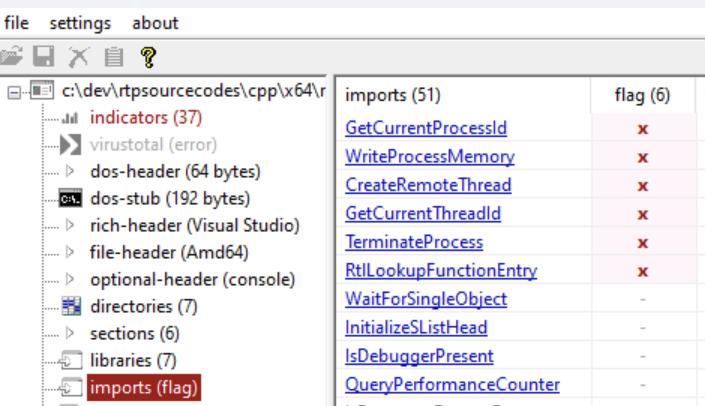
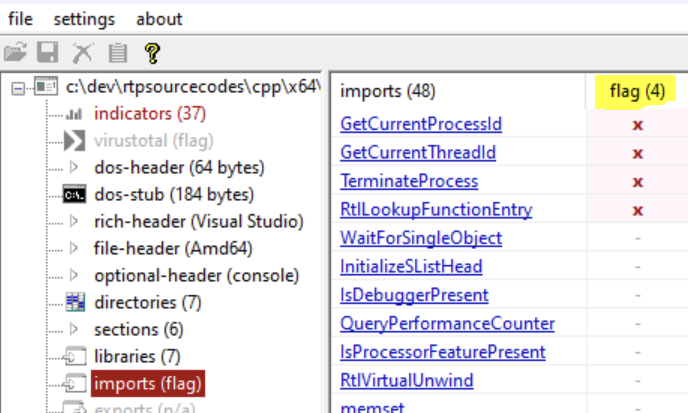
GITBOOK-229: No subject

diff --git a/what-even-is-redteam.md b/what-even-is-redteam.md
@@ -1,28 +1,40 @@
 # 레드팀이란
 
-레드팀(Red Team/Red Teaming)이라는 단어는 시간이 지남에 잘못된 단어 정의로 인해 다양한 정의를 갖게 되었다. 가장 보편화된 정의들은 다음과 같다:
+<figure><img src=".gitbook/assets/image (2).png" alt=""><figcaption></figcaption></figure>
+
+레드팀(Red Team/Red Teaming)이라는 단어는 시간이 지남에 따라다양한 정의를 갖게 되었다. 가장 보편화된 정의들은 다음과 같다:
 
 1. **일반적인 정의:** "같은 조직안에서 모의 적군의 입장을 갖고 현 조직내의 보안적 문제점이 무엇인지 살펴보는 팀" - 냉전 시대때의 정보기관 및 정보공동체 (Intelligence Community)에서 만들어졌다.
-2. **정보보안 업계의 정의:** "타겟 기관의 관리적, 기술적 보안을 담당하는 인력, 대응절차, 보안 통제 등의 전반적인 현황과 부족한 간극을 평가하기 위해 승인 받은 내/외부 보안 전문가들이 실제 공격자들의 공격 라이프사이클과 전략, 전술, 절차를 에뮬레이트 (emulate), 혹은 시뮬레이트 (simulate) 한 가상의 사이버 공격을 타겟에게 실행하는 보안 평가 서비스". 요즘에는 아래 서술될 이유 때문에 공격자 시뮬레이션 (Adversary Simulation) 이라는 단어로 대체되었다.
+2. **정보보안 업계의 정의:** "타겟 기관의 관리적, 기술적 보안을 담당하는 인력, 대응 절차, 보안 통제 등의 전반적인 현황과 부족한 간극을 평가하기 위해 승인 받은 내/외부 보안 전문가들이 실제 공격자들의 공격 라이프사이클과 전략, 전술, 절차를 에뮬레이트 (emulate), 혹은 시뮬레이트 (simulate) 한 가상의 사이버 공격을 타겟에게 실행하는 보안 평가 서비스". 요즘에는 아래 서술될 이유 때문에 공격자 시뮬레이션 (Adversary Simulation) 이라는 단어로 대체되었다.
 3. **정보보안 마케팅/미디어/HR의 정의:** 포괄적인 의미에서의 오펜시브 시큐리티(Offensive Security). 오펜시브 시큐리티와 관련된 모든 개념과 정의를 두루뭉술하게 모두 일컫는 단어가 되었다.
 
 2010년대 초반부터 정보보안 업계에서 레드팀은 #2번의 정의를 - 원래 실제 공격자 라이프사이클과 TTP를 모방한 사이버 공격을 고객사에게 진행해 고객사의 보안 인력, 공격 대응 절차, 보안 통제등에 대해서 통합적인 검사를 진행하는 프리미엄/틈새(niche) 서비스 - 일컫는 단어였다. 안타깝게도 2010년 중후반을 지나며 정보보안을 향한 관심이 커지고, 다양한 HR, 미디어, 마케팅 등에서 단어의 정의를 마음대로 바꾸며 사용하는 바람에 요즘에는 #3번의 정의로 더 많이 쓰이고 있다. 국내외 막론하고 대기업들 조차 웹/모바일 모의 침투 테스터를 뽑는 공고에 "XX기업 레드팀 전문가 채용" 이라는 제목을 짓는 지경까지 왔기에, 원래 레드팀 서비스를 제공하고 있던 회사들과 레드티머 (Red Teamers) 들은 레드팀이라는 단어를 버리고 공격자 시뮬레이션 (Adversary Simulation) 이라는 단어를 사용하기 시작했다.
 
+따라서 이 프로젝트의 경우도 #3번의 정의를 따라 "레드팀 플레이북" 이라는 프로젝트 명을 갖게 되었다. 사실 "오펜시브 시큐리티 플레이북" 이나, "공격자 시뮬레이션 플레이북" 이라는 이름이 더 잘 어울리겠지만, 이미 단어의 정의가 바뀌어 버렸기 때문에 그냥 "레드팀 플레이북" 을 사용하기로 결정했다.&#x20;
+
+이 글에서는 레드팀의 공격자 시뮬레이션 (Adversary Simulation)의 정의에 대해서 알아본다.&#x20;
+
 ## 모의해킹의 한계
 
-국내에서는 웹과 모바일 위주로 모의해킹이 이뤄지고 있지만, 전세계적으로는 내부망, 외부망, 웹/모바일, 클라우드, 스카다 (SCADA), 소셜 엔지니어링, 물리, 메인프레임 등의 다양한 모의해킹 서비스들이 제공되고 있다. 하지만 실제 공격자들은 공격을 진행할 때 세분화된 공격을 진행하지 않는다. 모바일 먼저 공격하고, 모바일 끝나면 웹앱 공격하고, 웹앱 끝나면 피싱 공격하고, 이렇게 세분화되고 순차적인 공격을 하지 않는다. 공격자들은 동시 다발적으로 공격 표면(Attack Surface)들을 공격한다. 또한, 여러개의 공격 표면을 같이 엮어 공격하거나, 1개의 공격 표면을 장악한 뒤 다른 공격 표면으로 횡적이동을 할 수도 있다. 예를 들어 피싱과 외부 경계 보안을 통해 내부망으로 진입한 뒤, 내부망 해킹을 통해 도메인을 장악하고, 클라우드 데이터베이스 서비스를 통해 데이터를 훔친 뒤, 모바일 어플리케이션을 통해 데이터를 유출시킬 수 있을 것이다.
+<figure><img src=".gitbook/assets/image.png" alt=""><figcaption></figcaption></figure>
 
-이처럼 세분화된 모의해킹 서비스들은 기관이 갖고 있는 다양한 도메인(웹, 모바일, 클라우드, 외부망, 내부망...)들의 개별적인 보안 평가를 하는데에는 최적화 되어있다. 하지만, 모의해킹은 정작 실제 사이버 공격이 일어났을 때 보안 인력들이 어떻게 대응해야하는지, 서브 도메인들의 보안 통제가 유기적으로 이뤄지고 있는지에 대한 전반적인 평가를 하는데 사용될 수 없다. 웹 모의해킹을 통해 웹앱에서 XSS, CSRF 등의 취약점을 몇 개 찾는다고 해서 공격자들이 해당 웹 어플리케이션을 프록시 서버로 사용해 내부망에 진입한 뒤, 내부망 데이터를 웹앱의 REST API 엔드포인트들을 통해 유출시키고 있다는 것을 알 수 없는 것처럼 말이다. 개별적인 보안 평가도 중요하지만, 기관/회사의 전반적인 보안 능력을 평가하는데 있어서는 현 모의해킹 서비스들의 한계는 명확하다.
+국내에서는 웹과 모바일 위주로 모의해킹이 이뤄지고 있지만, 전세계적으로는 내부망, 외부망, 웹/모바일, 클라우드, 스카다 (SCADA), 소셜 엔지니어링, 물리, 메인프레임 등의 다양한 모의해킹 서비스들이 제공되고 있다. 하지만 실제 공격자들은 공격을 진행할 때 세분화된 공격을 진행하지 않는다. 모바일 먼저 공격하고, 모바일 끝나면 웹앱 공격하고, 웹앱 끝나면 피싱 공격하고, 이렇게 세분화되고 순차적인 공격을 하지 않는다. 공격자들은 동시 다발적으로 공격 표면(Attack Surface)들을 공격한다. 또한, 여러개의 공격 표면을 같이 엮어 공격하거나, 1개의 공격 표면을 장악한 뒤 다른 공격 표면으로 횡적이동을 할 수도 있다. 예를 들어 피싱과 취약한 웹 어플리케이션을 통해 내부망으로 진입한 뒤, 도메인을 장악하고, 클라우드 데이터베이스 서비스에서 데이터를 훔친 뒤, 피해 기관의 모바일 어플리케이션의 백엔드 API 서버를 통해 데이터를 유출시킬 수 있다.
+
+세분화된 모의해킹 서비스들은 기관이 갖고 있는 다양한 도메인(웹, 모바일, 클라우드, 외부망, 내부망...)들의 개별적인 보안 평가를 하는데에는 최적화 되어있다. 하지만, 모의해킹은 정작 실제 사이버 공격이 일어났을 때 보안 인력들이 어떻게 대응해야하는지, 서브 도메인들의 보안 통제가 유기적으로 이뤄지고 있는지에 대한 전반적인 평가를 하는데 사용될 수 없다. 웹 모의해킹을 통해 웹앱에서 XSS, CSRF 등의 취약점을 몇 개 찾는다고 해서 공격자들이 해당 웹 어플리케이션을 프록시 서버로 사용해 내부망에 진입한 뒤, 내부망 데이터를 웹앱의 REST API 엔드포인트들을 통해 유출시키고 있다는 것을 알 수 없는 것처럼 말이다. 개별적인 보안 평가도 중요하지만, 기관/회사의 전반적인 보안 능력을 평가하는데 있어서는 현재 업계에서 제공되고 있는 모의해킹 서비스들의 한계는 명확하다.
 
 축구를 예를 들어 보자면, 축구를 잘하려면 슈팅, 패스, 드리블과 같은 개별적인 훈련을 하는 것이 중요하다. 하지만 그보다 더 중요한 것은 실제로 축구 경기를 뛰어보는 것이다. 어쨌든 축구를 잘하게 되려면, 11명이 한 팀이 되어서 축구를 해봐야할 것이 아닌가. 배운 훈련을 실제 상황에 적용하는 것, 팀워크, 그리고 경험은 경기를 뛰어보지 않는 이상 절대로 훈련만을 통해 쌓을 수 없는 것들이다. 월드컵이 오기전 4년 내내 슈팅, 패스, 드리블만 훈련하는 축구팀은 없을 것이다.
 
 ## 레드팀
 
+
+
+<figure><img src=".gitbook/assets/attack.png" alt=""><figcaption></figcaption></figure>
+
 그리고 블루팀이 이 연습 경기를 처음부터 끝까지 경험할 수 있도록 도와주는 서비스가 바로 레드팀 서비스다. 블루팀의 입장에서 매일 방화벽 설정, 솔루션 설정, 시큐어 코딩, 개인정보보호법, 망분리 등에 대한 일을 진행하면 그와 관련된 지식을 쌓을 수 있다. 하지만 실제로 공격이 일어날 때, 그리고 일어난 후, 수십, 수백명이 어떻게 탐지, 대응, 대처를 해야하는가는 축구처럼 연습 경기를 통해서만 알아낼 수 있다. 요즘에는 사이버 모의 훈련 이라고 해서 “사이버 레인지 (CyberRange)” 라는 가상 인프라에서 이런 훈련을 진행하기도 한다. 하지만 30\~50대의 호스트를 방어하는 사이버레인지와 실제 우리 회사의 인프라 속 수천, 수만대의 호스트와 수백개의 네트워크를 방어하는 경험은 비교가 불가능하다. 이처럼 레드팀은 타겟 기관의 블루팀이 실제 우리 기관의 인프라를 공격하는 공격자들을 어떻게 대응할 것인지에 대한 경험을 할 수 있도록 도와준다. 심지어 타겟기관의 CISO의 결정에 따라 레드팀 서비스가 진행중이라는 것을 자신의 블루팀에 알리지 않을 수도 있다. 이 경우 실제 상황과 매우 비슷한 경험을 할 수 있다.
 
 ### 목표
 
-레드팀 서비스는 최대한 현실적인 목표를 갖고 진행된다. 예를 들어 타겟 기관이 은행이라면 백엔드 SWIFT 인프라에 접근이 가능한가? SaaS 회사라면 코드베이스를 유출할 수 있는가? 핀테크라면 카드정보를 유출할 수 있는가? 미디어/언론이라면 임원들과 기자들의 이메일 내용을 유출할 수 있는가? 일반적인 기업이라면 랜섬웨어가 실행되기 전 탐지/대응을 할 수 있는가? APT 1337 의 TTP를 모방한 공격이 들어왔을 때, 이를 탐지할 수 있는가? 등. 당연히 레드팀 서비스 중 실제 데이터를 유출하지는 않는다. 고객사측에서 더미 파일/데이터를 만든 뒤 중요 서버에 심어놓고, 레드팀이 해당 더미 파일을 찾아 유출하는 형식으로 이뤄진다. 랜섬웨어 또한 실제 랜섬웨어를 사용하지 않고 더미 텍스트 파일을 생성한 뒤 암호화하는 가짜 랜섬웨어 등을 사용하는 등, 타겟 기관의 가용성을 해치지 않는 선에서 레드팀 서비스 목표를 지정한다.
+레드팀 서비스는 최대한 현실적인 목표를 갖고 진행된다. 예를 들어 타겟 기관이 은행이라면 백엔드 SWIFT 인프라에 접근이 가능한가? SaaS 회사라면 코드베이스를 유출할 수 있는가? 핀테크라면 카드정보를 유출할 수 있는가? 미디어/언론이라면 임원들과 기자들의 이메일 내용을 유출할 수 있는가? 일반적인 기업이라면 랜섬웨어가 실행되기 전 탐지/대응을 할 수 있는가? APT 1337 의 TTP를 모방한 공격이 들어왔을 때, 이를 탐지할 수 있는가? 등. 당연히 레드팀 서비스 중 실제 데이터를 유출하지는 않는다. 고객사측에서 더미 파일/데이터를 만든 뒤 중요 서버에 심어놓고, 레드팀이 해당 더미 파일을 찾아 유출하는 형식으로 이뤄진다. 타겟 기관의 가용성을 해치지 않는 선에서 레드팀 서비스 목표를 지정한다.
 
 ### 스코프와 규칙
 
@@ -40,7 +52,9 @@
 6. **지속성 유지:** 블루팀이 레드팀을 발견해 격리/추방 조치를 하더라도 다시 거점에 진입할 수 있도록 지속성을 유지한다.
 7. **미션 수행:** 블루팀과 조율한 최종 미션을 수행한다. 더미 데이터 유출, 가짜 랜섬웨어 배포, SWIFT 인프라 접근, 데이터 조작 등이 있다.
 
-라이프사이클을 진행하는 도중 뛰어난 블루팀을 만나면 공격이 더이상 진행되지 않는 경우가 있다. 예를 들어 초기 침투 중 피싱 이메일을 모두 파악한 직원들이 있을수도 있고, 블루팀이 재빠르게 레드팀의 비컨을 처리한 뒤 도메인을 모두 블랙리스트 하는 경우도 있을 것이다. 이처럼 정상적인 초기 공격들을 진행할 수 없다고 판단 될 경우 "Assumed Breach" - "이미 뚫렸다고 치고" 시나리오로 들어간다. 이 시나리오에서는 타겟 기관의 한 직원이 피싱에 "당했다고 치고", 특정 엔드포인트에서 레드팀의 비컨을 하나 실행 시킨 뒤 거점 확보, 권한 상승, 내부 정찰, 횡적 이동, 지속성 유지 등의 단계들을 평가한다. 레드팀 서비스는 대부분 4주 \~ 8주의 긴 시간 동안 이뤄지기 때문에 초기 정찰 및 초기 침투가 2\~3번정도 실패하게 되면 8주 내내 초기 침투만 평가할 것은 아니기 때문에 그 다음 단계인 Assumed Breach로 넘어가는 경우가 많다.
+라이프사이클을 진행하는 도중 뛰어난 블루팀을 만나면 공격이 더이상 진행되지 않는 경우가 있다. 예를 들어 초기 침투 중 피싱 이메일을 모두 파악한 직원들이 있을수도 있고, 블루팀이 재빠르게 레드팀의 비컨을 처리한 뒤 도메인을 모두 블랙리스트 하는 경우도 있을 것이다.&#x20;
+
+이처럼 정상적인 초기 공격들을 진행할 수 없다고 판단 될 경우 "Assumed Breach" - "이미 뚫렸다고 치고" 시나리오로 들어간다. 이 시나리오에서는 타겟 기관의 한 직원이 피싱에 "당했다고 치고", 특정 엔드포인트에서 레드팀의 비컨을 하나 실행 시킨 뒤 거점 확보, 권한 상승, 내부 정찰, 횡적 이동, 지속성 유지 등의 단계들을 평가한다. 레드팀 서비스는 대부분 4주 \~ 8주의 긴 시간 동안 이뤄지기 때문에 초기 정찰 및 초기 침투가 2\~3번정도 실패하게 되면 8주 내내 초기 침투만 평가할 것은 아니기 때문에 그 다음 단계인 Assumed Breach로 넘어가 고객사의 다른 대응 절차나 보안 통제들을 평가한다.
 
 ### 최종 결과물
 
@@ -71,29 +85,23 @@
 
 이 섹션은 필자 본인을 위해 만든 섹션이기 때문에 다음 섹션으로 넘어가도 된다.
 
-다음은 2023년 기준으로 레드팀 오퍼레이터가 알고 있고, 다뤄야 할 줄 아는 지식들이다. 물론 정보보안답게 Show, Don't Tell 로써, 그저 아는 것이 중요한게 아니라, 직접 그 지식을 적용할 줄도 알아야한다.&#x20;
+다음은 2023년 기준으로 레드팀 오퍼레이터가 알고 있고, 다뤄야 할 줄 아는 지식들이다. 물론 정보보안답게 Show, Don't Tell 로써, 그저 아는 것이 중요한게 아니라 직접 그 지식을 적용할 줄도 알아야한다.&#x20;
 
-1\. 공격 인프라 구축&#x20;
+| 단계                                              | 설명                                                  | 지식                                                                                                                                   | 기술 스택                                                                                                    |
+| ----------------------------------------------- | --------------------------------------------------- | ------------------------------------------------------------------------------------------------------------------------------------ | -------------------------------------------------------------------------------------------------------- |
+| 1. 공격 인프라 구축                                    | 레드팀의 처음부터 끝까지 모든 공격 활동을 할 인프라를 재사용 가능하도록 구축한다다      | 도메인 구입, 도메인 분류, 도메인 에이징, C2 서버 구축, 리다이렉터 구축, 피싱 SMTP 구축, 피싱 릴레이 구축, 이메일 SPF, DKIM, DMARC 적용, 작전보안 (OPSEC)                            | Ansible, Terraform, ( Packer), CrossPlane, Bash scripting, Powershell, cloud providers (AWS, Azure, GCP) |
+| 2. 초기 정찰                                        | 타겟 기관의 공개적으로 접근 가능한 모든 자산들과 인력들에 관련된 정보를 수집한다       | 직/간접 외부 자산 정보수집, OSINT, Social Engineering, 모바일 어플리케이션 리버싱, 외부망 모의해킹, Cloud                                                          | N/A, 각 지식에 필요한 지식 및 툴 사용 방법                                                                              |
+| 3. 초기 침투                                        | 타겟 기관의 내부망 안의 엔드포인트, 외부 자산, 혹은 계정 정보등을 침투하거나 획득한다   | 피싱, Vishing, 페이로드 생성, 방어 우회, 소셜 엔지니어링, C2 서버 설치 및 운영, Malleable C2 Profile, 현존 페이로드 난독화, 현존 페이로드 조작 (User-Defined Reflective Loader) | C, C++, Rust, Powershell, .NET (C#, Boolang), VBScript, Payload Obfuscation, Creating Maldocs            |
+| <ol start="4"><li>거점 확보</li></ol>               | 초기 침투로 얻어낸 엔드포인트 / 유저 계정을 이용해 레드팀 작전을 할 거점을 확보한다    | 로컬 정보 수집, 윈도우/리눅스/클라우(AWS, Azure, GCP) 권한 상승, 네트워크 기반/인-메모리 기반/User Identity기반 방어 우회, 지속성 유지 확보                                      | Windows/Linux Internals, Cloud internals & enumeration, AV/EDR Solution Internals, Persistence           |
+| <ol start="5"><li>권한 상승, 내부 정찰, 횡적 이동</li></ol> | 확보한 거점으로부터 목표 지점까지 반복적으로 권한 상승, 내부 정찰, 횡적 이동을 실시한다. | 액티브 디렉토리 정찰 + 권한 상승 + 횡적 이동, 클라우드, AAD (Azure AD)                                                                                    | N/A                                                                                                      |
 
-레드팀의 처음부터 끝까지 모든 공격 활동을 할 인프라를 재사용 가능하도록 구축할 줄 알아야한다.&#x20;
+쉽지 않다. 위에 적혀있는 분야 중 한 분야만 잘 다뤄도 취업하는데 걱정이 없는데 (클라우드, 프로그래밍 언어, OS Internals, Active Directory, AAD, DevOps, 등), 이 모든 걸 다 알아야 하고, 이 모든 걸 다 실전에서 적용할 수 있어야한다. 따라서 레드팀의 경우 모의해커 경력이 5년, 10년 이상차가 되어도 엄두도 못내는 분들이 많다.&#x20;
 
-지식: 도메인 구입, 도메인 분류, 도메인 에이징, C2 서버 구축, 리다이렉터 구축, 피싱 SMTP 구축, 피싱 릴레이 구축, 이메일 SPF, DKIM, DMARC 적용, 작전보안 (OPSEC)&#x20;
+### 마치며&#x20;
 
-기술스택: Ansible, Terraform, CrossPlane, Bash scripting, powershell, cloud providers (AWS, Azure)&#x20;
+레드팀 서비스는 단순히 컴플라이언스 자격 요건을 충족시키기 위한 서비스가 아니라, 기관의 보안 인력과 대응 절차를 전반적으로 평가하고 개선점을 찾아내기 위한 서비스다. 최근 들어 보안에 진심을 보여주고 있는 기관과 기업들의 비중이 크게 높아지고 있다. 더이상 세분화된 모의해킹들은 이들의 보안에 관련된 열정을 충족시켜주기엔 부족하다. 국내에는 아직 레드팀/공격자 시뮬레이션 서비스가 많이 없는 것으로 알고 있다. 이 글을 통해 더 많은 보안 전문가들이 레드팀 서비스에 대해서 알았기를 바라며, 훌륭한 Red Teamer가 되기 위한 공부를 하기 위해 글을 줄인다.
 
-2\. 초기 정찰&#x20;
-
-타겟 기관의 공개적으로 접근 가능한 모든 자산들과 인력들에 관련된 정보를 수집한다&#x20;
-
-지식: 직/간접 외부 자산 정보수집, OSINT, Social Engineering, 모바일 어플리케이션 리버싱, 외부망 모의해킹
-
-기술스택: N/A, 각 지식에 필요한 지식 및 툴 사용 방법&#x20;
-
-3\. 초기 침투&#x20;
-
-타겟 기관의 내부망 안의 엔드포인트, 외부 자산, 혹은 계정 정보등을 침투하거나 획득한다&#x20;
-
-지식: 피싱, 피싱 페이로드 생성, 방어 우회, Vishing, 소셜 엔지니어링, &#x20;
+Happy Hacking!
 
 
 

diff --git a/defense-evasion/run-time-dynamic-linking.md b/defense-evasion/run-time-dynamic-linking.md
@@ -79,7 +79,7 @@ int main()
 
 컴파일 후 PEStudio 로 해당 파일을 살펴보면 IAT에 수상한 윈도우 API인 `WriteProcessMemory` 와 `CreateRemoteThread` 가 보인다. "Flag" 도 총 6개로, 수상한 윈도우 API 6개가 IAT에 기록되어 있다는 것을 보여준다.&#x20;
 
-<figure><img src="../.gitbook/assets/image (1).png" alt=""><figcaption></figcaption></figure>
+<figure><img src="../.gitbook/assets/image (1) (2).png" alt=""><figcaption></figcaption></figure>
 
 이제 런타임 다이나믹 링킹을 적용해보자. `WriteProcessMemory` 와 `CreateRemoteThread` 에 적용한 뒤, 다시 컴파일을 한다.
 
@@ -99,7 +99,7 @@ _CreateRemoteThread pCreateRemoteThread = (_CreateRemoteThread)(GetProcAddress(G
 
 다시 PEStudio 로 살펴보면, IAT 에서 `WriteProcessMemory` 와 `CreateRemoteThread` 가 더이상 보이지 않는다. "Flag" 도 6개에서 4개로 줄었다.&#x20;
 
-<figure><img src="../.gitbook/assets/image.png" alt=""><figcaption></figcaption></figure>
+<figure><img src="../.gitbook/assets/image (1).png" alt=""><figcaption></figcaption></figure>
 
 런타임 다이나믹 링킹은 간단한 정적 분석을 우회하기 위한 용도로만 사용되야한다. 중요한 윈도우 API의 경우 직접/간접 시스템 콜을 이용하거나 수동적 맵핑을 이용한 방법을 사용하도록 한다. 별로 중요하지 않지만 자주 사용되고, 직/간접 시스템 콜을 사용할 수 없는 윈도우 API (`Process32Next` 등)의 경우, 런타임 다이나믹 링킹을 적용하면 IAT 목록을 수상하지 않게 만들 수 있다.&#x20;
 

diff --git a/execution/powershell/winapi-execution.md b/execution/powershell/winapi-execution.md
@@ -58,7 +58,7 @@ $pThread = [winAPIClass]::CreateThread(0,0,$pAlloc,0,0,0)
 
 Add-Type이 실행될 때 C# 코드가 메모리상에서 컴파일 된다고 위에서 얘기했었다. 더 자세하게 얘기하자면 `csc.exe` 를 이용해 메모리상에서 C# 코드를 컴파일 하지만, 그 와중에 임시 파일을 디스크위에 작성한다.&#x20;
 
-![](<../../.gitbook/assets/image (2) (2).png>)
+![](<../../.gitbook/assets/image (2) (2) (1).png>)
 
 ![](<../../.gitbook/assets/image (6) (2).png>)
 
